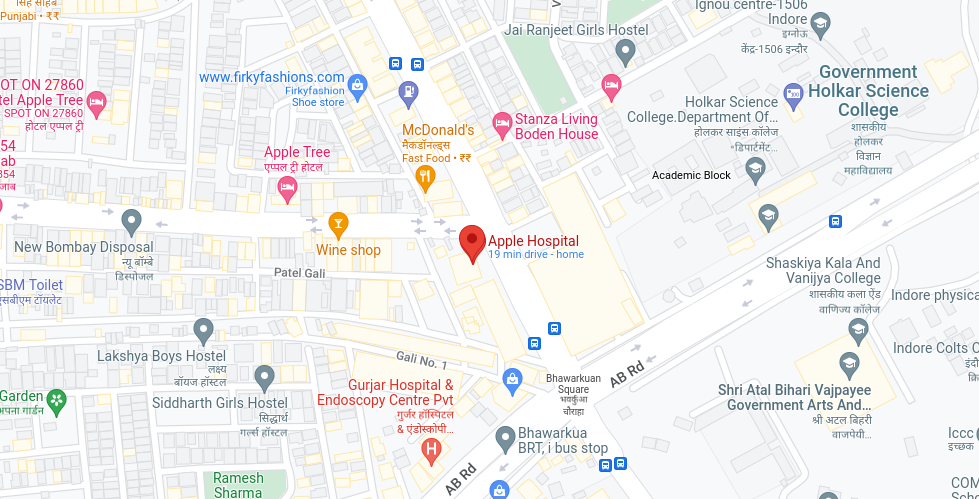
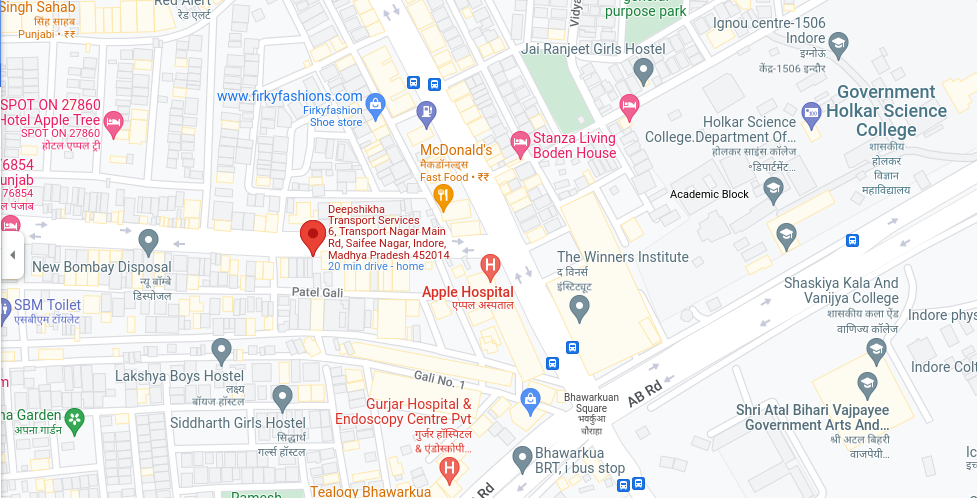
added location link

diff --git a/index.html b/index.html
@@ -571,7 +571,11 @@
                   </div>
                   <div class="col-md-8">
                      <div class="map">
-                        <figure><img src="images/location.png" alt="#"/></figure>
+                        <figure>
+                           <a href="https://goo.gl/maps/XwboQGbCFhhoDxWj6">
+                              <img src="images/location.png" alt="#" />
+                           </a>
+                        </figure>
                      </div>
                   </div>
                </div>

diff --git a/css/style.css b/css/style.css
@@ -35,7 +35,7 @@
 
 html {
      scroll-behavior: smooth;
-     overflow-x: hidden;
+     
 
 }
 
@@ -984,7 +984,7 @@ ul.conat_info li a:hover {
 
 .footer {
      background-image: url(/images/banner.png);
-     margin-top: 90px;
+     margin-top: 0px;
      padding-top: 90px;
      text-align: center;
 }
@@ -1018,7 +1018,9 @@ ul.location_icon li a:hover {
 
 .map {
      margin-right: 80px;
-     /* padding-left: 10%; */
+     padding-left: 10%;
+     height: 100%;
+     width: 100%;
 }
 
 .map figure {
